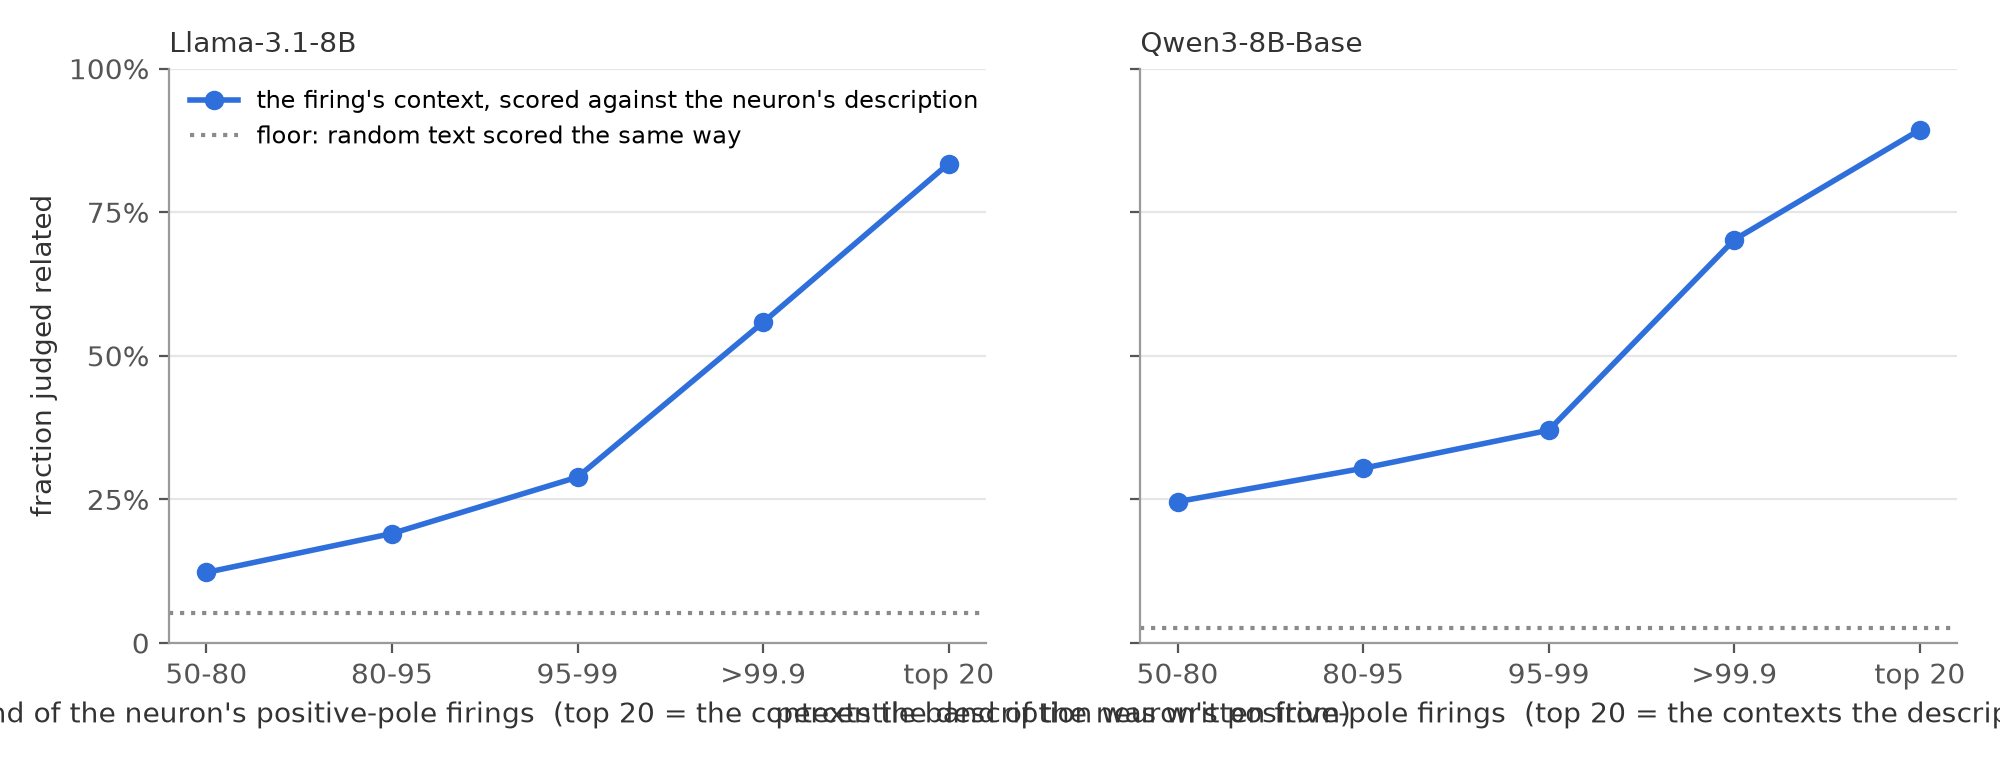
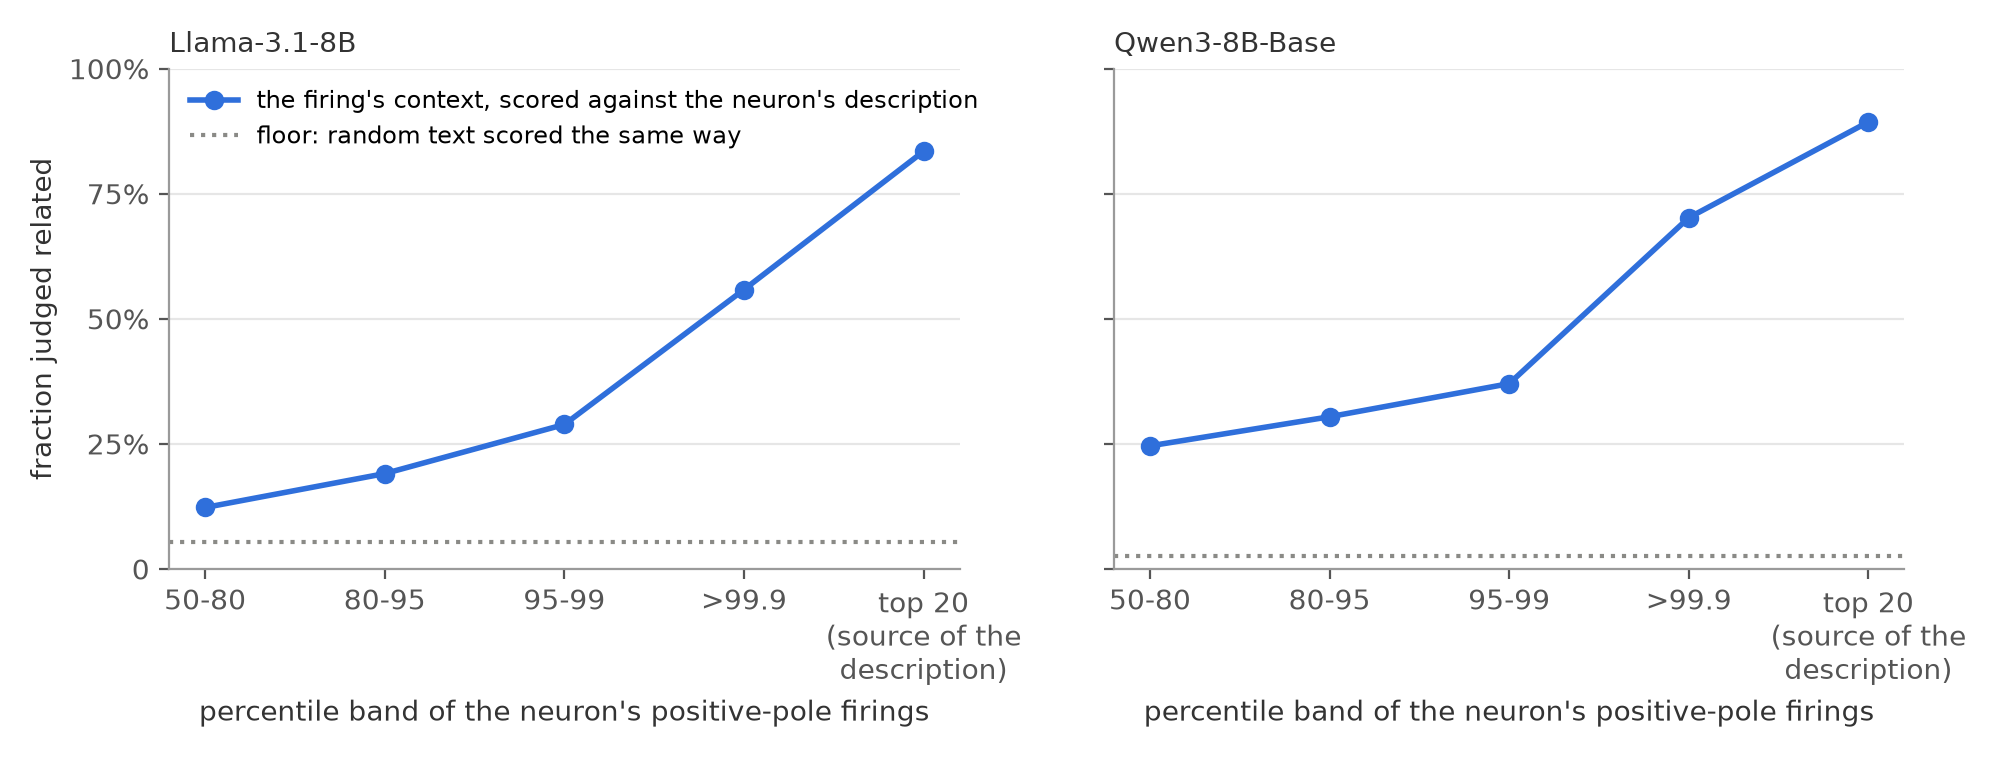
Figure label fixes

diff --git a/src/make_figures.py b/src/make_figures.py
@@ -36,12 +36,12 @@ for which in ['surface', 'traced']:
             surf = [s['band0']['related'], s['band1']['related'], s['band2']['related'], s['band3']['related'], s['top']['related']]
             ax.plot(range(5), surf, '-o', color=ACC, lw=2, ms=6, label="the firing's context, scored against the neuron's description")
             ax.axhline(s['random']['related'], ls=':', color=GREY, lw=1.5, label='floor: random text scored the same way')
-            ax.set_xticks(range(5)); ax.set_xticklabels(bands); ax.set_xlabel("percentile band of the neuron's positive-pole firings  (top 20 = the contexts the description was written from)")
+            ax.set_xticks(range(5)); ax.set_xticklabels(['50-80', '80-95', '95-99', '>99.9', 'top 20\n(source of the\ndescription)']); ax.set_xlabel("percentile band of the neuron's positive-pole firings")
         else:
             tx = [0, 1, 2]
             ax.plot(tx, [d['b50_80_real']['related'], d['b80_95_real']['related'], d['strong_real']['related']], '-o', color=ACC, lw=2, ms=6, label="top-3 upstream drivers' descriptions vs the neuron's description")
             ax.plot(tx, [d['b50_80_null']['related'], d['b80_95_null']['related'], d['strong_null']['related']], '--o', color=GREY, lw=1.5, ms=5, label="null: same drivers vs a random other neuron's description")
-            ax.set_xticks(tx); ax.set_xticklabels(['50-80', '80-95', '>99.9']); ax.set_xlabel("percentile band of the downstream neuron's positive-pole firing")
+            ax.set_xticks(tx); ax.set_xticklabels(['50-80', '80-95', '>99.9']); ax.set_xlabel("percentile band of the downstream firing")
         ax.set_ylim(0, 1); ax.set_yticks([0, .25, .5, .75, 1]); ax.set_yticklabels(['0', '25%', '50%', '75%', '100%']); ax.set_title(label, loc='left', fontsize=10, color='#333'); ax.grid(axis='y', color='#e6e6e6')
     axes[0].set_ylabel('fraction judged related'); axes[0].legend(frameon=False, fontsize=8.5, loc='upper left')
     save(fig, f'relatedness_{which}.png')
